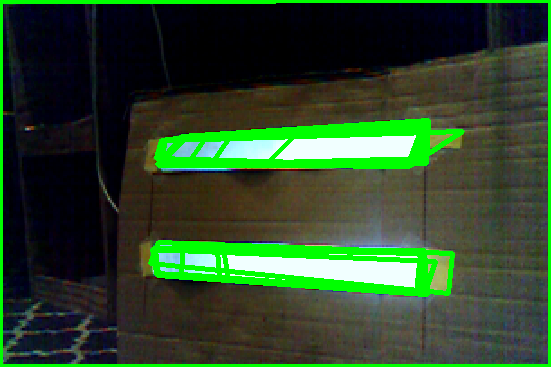
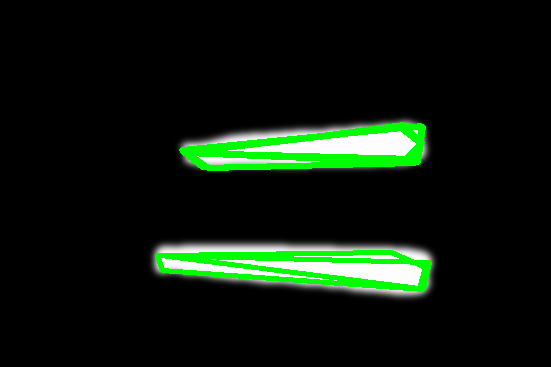
Add more configuration options

diff --git a/JeVois/LineDetect/test.py b/JeVois/LineDetect/test.py
@@ -1,10 +1,11 @@
 #!/usr/bin/env python
 
-'''
-Simple "Square Detector" program.
+# params
+doOtsu = False
+doGuassianBeforeThreshold = True
+doGuassianAfterThreshold = True
+guassianAmount = 21
 
-Loads several images sequentially and tries to find squares in each image.
-'''
 
 # Python 2/3 compatibility
 import sys
@@ -22,8 +23,6 @@ def angle_cos(p0, p1, p2):
     return abs( np.dot(d1, d2) / np.sqrt( np.dot(d1, d1)*np.dot(d2, d2) ) )
 
 def find_squares(img):
-    img = cv.GaussianBlur(img, (5, 5), 0)
-    #img = cv.threshold(img, 127, 255, cv.THRESH_BINARY)
     squares = []
     for gray in cv.split(img):
         for thrs in xrange(0, 255, 26):
@@ -41,10 +40,33 @@ def find_squares(img):
                     max_cos = np.max([angle_cos(cnt[i], cnt[(i+1) % 4], cnt[(i+2) % 4] ) for i in xrange(4)])
                     if max_cos < 0.1 or True:
                         squares.append(cnt)
+    for square in squares:
+        print(square, cv.contourArea(cnt))
     return squares
 
 if __name__ == '__main__':
     img = cv.imread("test.png")
+    # convert to B&W
+    img = cv.cvtColor(img, cv.COLOR_BGR2GRAY)
+    img = cv.cvtColor(img, cv.COLOR_GRAY2RGB)
+    if doGuassianBeforeThreshold:
+        # Guassian blur
+        img = cv.GaussianBlur(img, (guassianAmount, guassianAmount), 0)
+
+    # threshold color
+    # strict threshold
+    img = cv.threshold(img, 175, 255, cv.THRESH_TOZERO)[1]
+    add = 0
+    if doOtsu:
+        add = cv.THRESH_OTSU
+    # Otsu's thresholding
+    # see https://docs.opencv.org/3.4/d7/d4d/tutorial_py_thresholding.html
+    img = cv.threshold(img, 127, 255, cv.THRESH_BINARY+add)[1]
+
+    if doGuassianAfterThreshold:
+        # Guassian blur
+        img = cv.GaussianBlur(img, (guassianAmount, guassianAmount), 0)
+
     squares = find_squares(img)
     cv.drawContours( img, squares, -1, (0, 255, 0), 3 )
     cv.imshow('squares', img)
